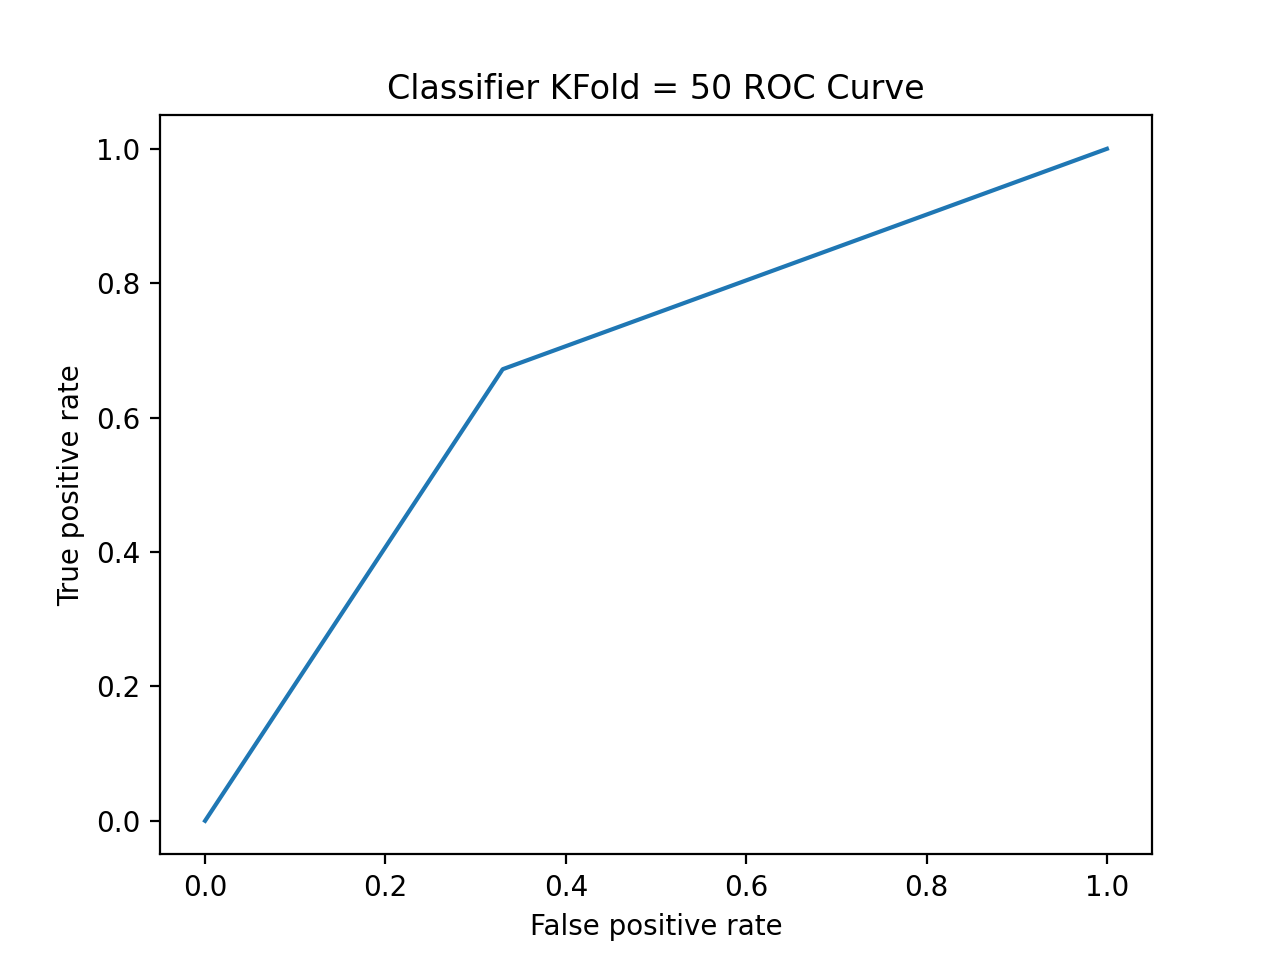
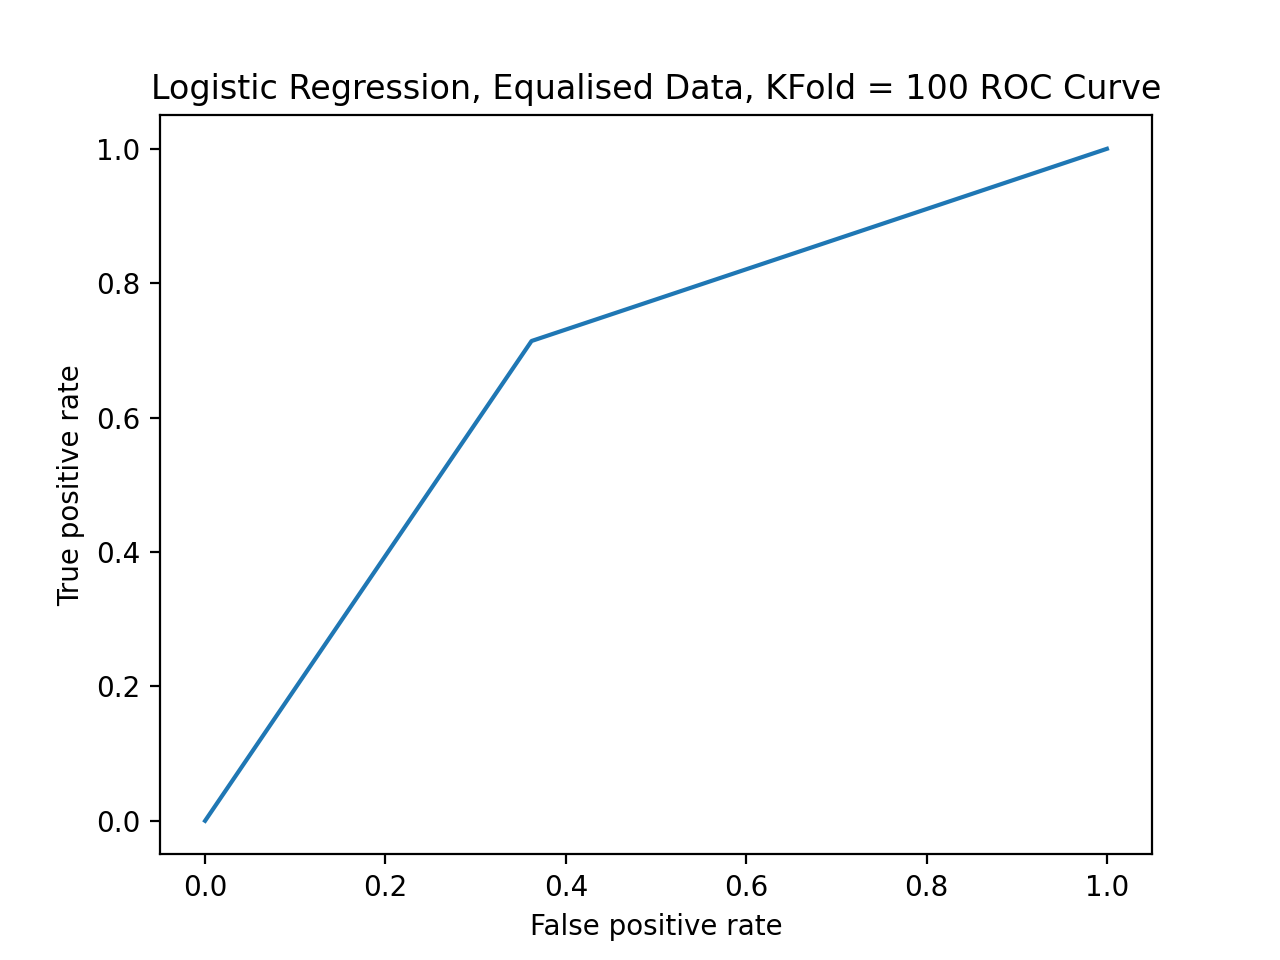
early access eval done

diff --git a/models/predict_early_access.py b/models/predict_early_access.py
@@ -99,10 +99,12 @@ kf = KFold(n_splits=k)
 print("KFOLD: ", k)
 for train, test in kf.split(X):
     print("-> ")
-    model = MultinomialNB()
+    model = LogisticRegression()
     model.fit(X[train], z[train])
     predictions = model.predict(X[test])
     preds.extend(predictions)
 
-evaluator.calculate_confusion_matrix(z, preds, "Logistic Regression")
-evaluator.plot_roc_curve(z, preds, "Classifier KFold = 50")
+evaluator.calculate_confusion_matrix(z, preds,
+                                     "Logistic Regression, Equalised Data")
+evaluator.plot_roc_curve(z, preds,
+                         "Logistic Regression, Equalised Data, KFold = 100")

diff --git a/models/evaluate.py b/models/evaluate.py
@@ -11,10 +11,6 @@ class Evaluate:
         print("--- Model ", model, " ---")
         print("Confusion Matrix (tn, fp, fn, tp): ", tn, fp, fn, tp)
 
-        # acc = ((tp + tn) / (tp + fp + fn + tp))
-        # prec = (tp / (tp + fp))
-        # recall = (tp / (tp + fn))
-        # f1 = 2 * ((prec * recall) / (prec + recall))
         acc = accuracy_score(truth, pred)
         recall = recall_score(truth, pred)
         prec = precision_score(truth, pred)

diff --git a/models/predict_polarity.py b/models/predict_polarity.py
@@ -91,7 +91,7 @@ count = 0
 for train, test in kf.split(X):
     print("-> ", count)
     count = count + 1
-    model = KNeighborsClassifier(n_neighbors=50)
+    model = LogisticRegression()
     model.fit(X[train], y[train])
     predictions = model.predict(X[test])
     preds.extend(predictions)
